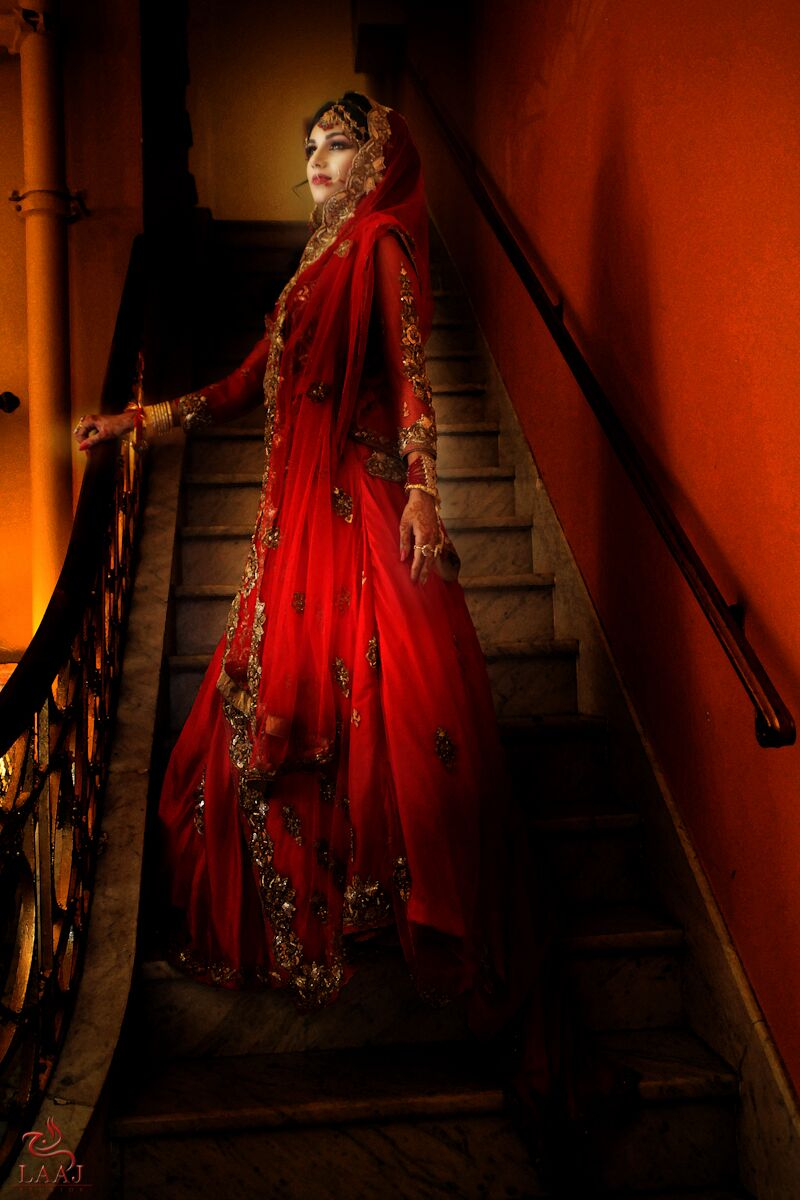
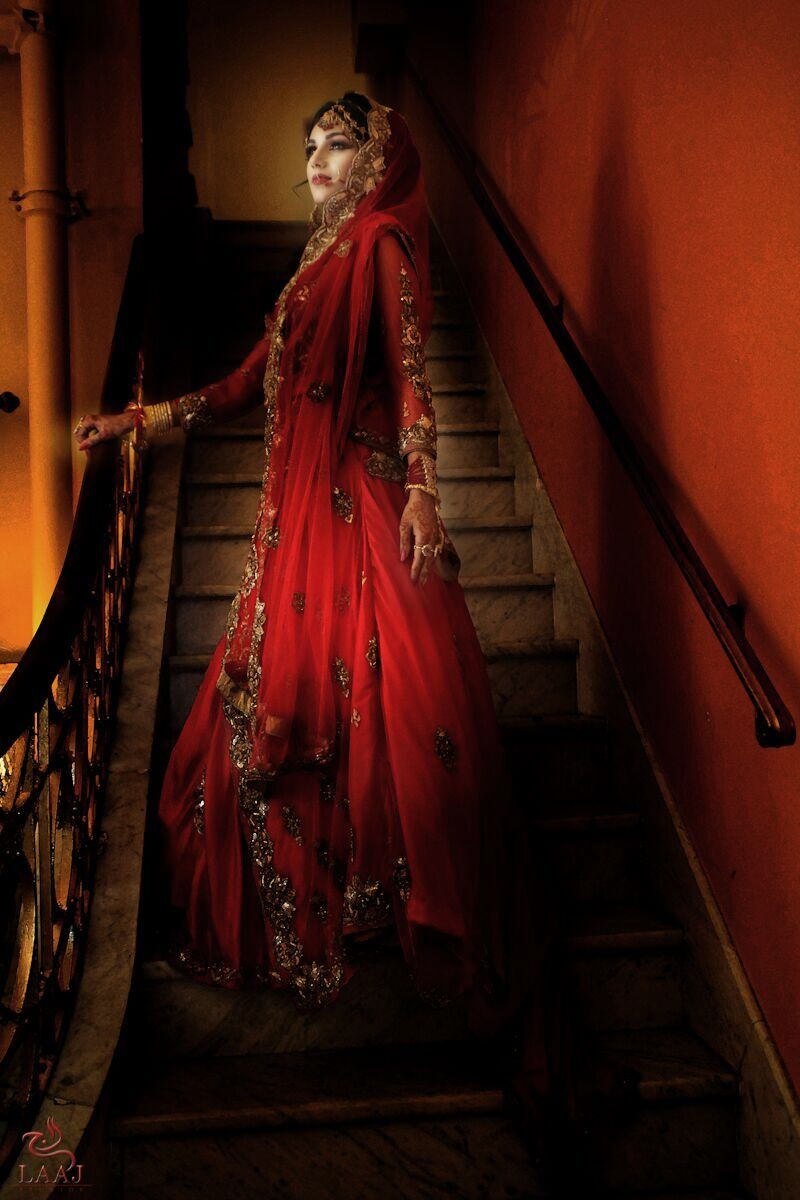
Tone down red: ivory, espresso and champagne-gold palette
Replace the oxblood/crimson site palette with espresso panels, ivory
pages and gold accents, keeping red only inside photographs. Swap
red-heavy images (hero sides, film still, one gallery detail) for ivory
and gold shots from the Drive portfolio, soften the hero centre image,
and remove the duplicate quote marks in testimonials.

Claude-Session: https://claude.ai/code/session_01GU3R7ECrbDjAm4dP1r6n33

diff --git a/css/styles.css b/css/styles.css
@@ -1,17 +1,18 @@
-/* Layout concept: an editorial bridal-magazine spread. Oxblood "night" panels alternate with pearl "day" pages;
-   photographs sit in Mughal arch frames; gold hairlines stand in for zari borders. */
+/* Layout concept: an editorial bridal-magazine spread. Espresso "night" panels alternate with ivory "day" pages;
+   photographs sit in Mughal arch frames; champagne-gold hairlines stand in for zari borders.
+   Red is reserved for the photographs themselves. */
 :root {
-  --pearl: #f7f2ef;      /* day pages */
-  --blush: #efe5e0;      /* soft panels on day pages */
-  --oxblood: #2a0b0e;    /* night panels */
-  --oxblood-2: #3a1216;  /* raised surfaces on night panels */
-  --crimson: #8e1b1f;    /* the Laaj logo red */
-  --gold: #c09a62;       /* zari gold, on dark */
-  --gold-deep: #8a6a3c;  /* gold that reads on pearl */
-  --ink: #1f1516;        /* text on pearl */
-  --ink-soft: #6b5a58;   /* secondary text on pearl */
-  --cream: #f3e9dc;      /* text on oxblood */
-  --cream-soft: #c9b6a6; /* secondary text on oxblood */
+  --pearl: #f8f5f0;      /* ivory day pages */
+  --sand: #eee8df;       /* soft panels on day pages */
+  --night: #17140f;      /* espresso night panels */
+  --night-2: #221e18;    /* raised surfaces on night panels */
+  --accent: #8a6a3c;     /* antique bronze: italic accents on ivory */
+  --gold: #c8a76e;       /* champagne gold, on dark */
+  --gold-deep: #8a6a3c;  /* gold that reads on ivory */
+  --ink: #1d1a16;        /* text on ivory */
+  --ink-soft: #6a6259;   /* secondary text on ivory */
+  --cream: #f4eee4;      /* text on night */
+  --cream-soft: #bdb3a5; /* secondary text on night */
 
   --f-display: "Bodoni Moda", "Didot", "Bodoni 72", Georgia, serif;
   --f-body: "Jost", "Futura", "Avenir Next", "Helvetica Neue", Arial, sans-serif;
@@ -44,7 +45,7 @@ body {
 img { max-width: 100%; display: block; height: auto; }
 a { color: inherit; }
 h1, h2, h3 { font-family: var(--f-display); font-weight: 400; line-height: 1.08; margin: 0; text-wrap: balance; letter-spacing: -0.01em; }
-h1 em, h2 em { font-style: italic; color: var(--crimson); }
+h1 em, h2 em { font-style: italic; color: var(--accent); }
 p { margin: 0; }
 :focus-visible { outline: 2px solid var(--gold); outline-offset: 3px; }
 
@@ -70,12 +71,12 @@ p { margin: 0; }
   cursor: pointer; transition: background .3s, color .3s, border-color .3s, transform .3s;
 }
 .btn:hover { transform: translateY(-1px); }
-.btn--gold { background: var(--gold); color: var(--oxblood); }
+.btn--gold { background: var(--gold); color: var(--night); }
 .btn--gold:hover { background: var(--cream); }
-.btn--crimson { background: var(--crimson); color: var(--cream); }
-.btn--crimson:hover { background: var(--oxblood); }
+.btn--dark { background: var(--night); color: var(--cream); }
+.btn--dark:hover { background: var(--accent); }
 .btn--line { border-color: var(--gold); color: var(--cream); background: transparent; }
-.btn--line:hover { background: var(--gold); color: var(--oxblood); }
+.btn--line:hover { background: var(--gold); color: var(--night); }
 .btn--line-dark { border-color: var(--ink); color: var(--ink); background: transparent; }
 .btn--line-dark:hover { background: var(--ink); color: var(--pearl); }
 .btn--text { background: none; color: var(--cream-soft); padding-inline: 0; }
@@ -83,7 +84,7 @@ p { margin: 0; }
 
 /* Ribbon + nav */
 .ribbon {
-  background: var(--crimson); color: var(--cream);
+  background: var(--night); color: var(--gold);
   display: flex; justify-content: center; flex-wrap: wrap; gap: .4rem 1.2rem;
   padding: .55rem var(--gutter);
   font: 400 var(--step--1)/1.4 var(--f-body); letter-spacing: .14em; text-transform: uppercase; text-align: center;
@@ -100,14 +101,14 @@ p { margin: 0; }
 }
 .nav__brand { display: flex; align-items: center; gap: .7rem; text-decoration: none; }
 .nav__brand span { font: 400 1.35rem/1 var(--f-display); letter-spacing: .14em; text-transform: uppercase; }
-.nav__brand em { font-style: normal; font-family: var(--f-body); font-size: .62rem; letter-spacing: .5em; color: var(--crimson); margin-left: .3rem; }
+.nav__brand em { font-style: normal; font-family: var(--f-body); font-size: .62rem; letter-spacing: .5em; color: var(--accent); margin-left: .3rem; }
 .nav__links { display: flex; gap: 2rem; }
 .nav__links a { font-size: .78rem; letter-spacing: .2em; text-transform: uppercase; text-decoration: none; color: var(--ink-soft); transition: color .2s; }
-.nav__links a:hover { color: var(--crimson); }
+.nav__links a:hover { color: var(--accent); }
 
 /* Hero */
 .hero {
-  background: radial-gradient(ellipse at 75% 40%, var(--oxblood-2), var(--oxblood) 65%);
+  background: radial-gradient(ellipse at 75% 40%, var(--night-2), var(--night) 65%);
   color: var(--cream);
   display: grid; grid-template-columns: minmax(0, 1fr) minmax(0, 1.15fr); align-items: center;
   gap: clamp(2rem, 5vw, 5rem);
@@ -141,7 +142,7 @@ p { margin: 0; }
   display: grid; grid-template-columns: auto minmax(0, 1fr); align-items: center; gap: clamp(1.5rem, 5vw, 5rem);
   max-width: 980px; margin: 0 auto; padding: clamp(3.5rem, 8vw, 6rem) var(--gutter);
 }
-.meaning__urdu { font: 500 clamp(4.5rem, 10vw, 7.5rem)/1.6 var(--f-urdu); color: var(--crimson); }
+.meaning__urdu { font: 500 clamp(4.5rem, 10vw, 7.5rem)/1.6 var(--f-urdu); color: var(--accent); }
 .meaning__def { display: grid; gap: .8rem; border-left: 1px solid var(--gold-deep); padding-left: clamp(1.2rem, 3vw, 2.5rem); }
 .meaning__word { font: italic 400 var(--step-2)/1.2 var(--f-display); }
 .meaning__word span { font: 400 var(--step--1)/1 var(--f-body); font-style: normal; letter-spacing: .12em; color: var(--ink-soft); margin-left: .6rem; }
@@ -157,7 +158,7 @@ p { margin: 0; }
 .work { padding: clamp(2rem, 5vw, 4rem) var(--gutter) clamp(4rem, 9vw, 7rem); max-width: var(--max); margin: 0 auto; }
 .gallery { columns: 3 260px; column-gap: clamp(.6rem, 1.4vw, 1.1rem); }
 .gallery__item {
-  display: block; width: 100%; margin: 0 0 clamp(.6rem, 1.4vw, 1.1rem); padding: 0; border: 0; background: var(--blush);
+  display: block; width: 100%; margin: 0 0 clamp(.6rem, 1.4vw, 1.1rem); padding: 0; border: 0; background: var(--sand);
   cursor: zoom-in; overflow: hidden; break-inside: avoid;
 }
 .gallery__item img { width: 100%; transition: transform 1.2s cubic-bezier(.2,.7,.1,1), filter .6s; }
@@ -167,7 +168,7 @@ p { margin: 0; }
 
 /* Film */
 .film {
-  background: var(--oxblood); color: var(--cream);
+  background: var(--night); color: var(--cream);
   display: grid; grid-template-columns: minmax(0, .9fr) minmax(0, 1.1fr); gap: clamp(2rem, 6vw, 6rem); align-items: center;
   padding: clamp(4rem, 9vw, 7rem) var(--gutter);
 }
@@ -184,7 +185,7 @@ p { margin: 0; }
 .film__feature em { font: italic 400 1.15rem/1 var(--f-display); text-transform: none; letter-spacing: 0; color: var(--cream); }
 
 /* Collections */
-.collections { padding: clamp(4rem, 9vw, 7rem) var(--gutter); background: var(--blush); }
+.collections { padding: clamp(4rem, 9vw, 7rem) var(--gutter); background: var(--sand); }
 .tiers { display: grid; grid-template-columns: repeat(3, minmax(0, 1fr)); gap: clamp(1rem, 2vw, 1.6rem); max-width: var(--max); margin: 0 auto; align-items: stretch; }
 .tier {
   background: var(--pearl); padding: clamp(1.8rem, 3vw, 2.6rem); display: flex; flex-direction: column; gap: 1rem;
@@ -198,16 +199,16 @@ p { margin: 0; }
 .tier li { padding-left: 1.3rem; position: relative; }
 .tier li::before { content: ""; position: absolute; left: 0; top: .75em; width: .55rem; height: 1px; background: var(--gold-deep); }
 .tier .btn { margin-top: 1.2rem; }
-.tier--featured { background: var(--oxblood); color: var(--cream); border-color: var(--gold); }
+.tier--featured { background: var(--night); color: var(--cream); border-color: var(--gold); }
 .tier--featured .tier__for { color: var(--gold); }
 .tier--featured .tier__price { border-color: color-mix(in srgb, var(--gold) 40%, transparent); }
 .tier--featured .tier__price span, .tier--featured ul { color: var(--cream-soft); }
 .tier--featured li::before { background: var(--gold); }
-.tier__badge { position: absolute; top: 0; right: clamp(1.8rem, 3vw, 2.6rem); transform: translateY(-50%); background: var(--gold); color: var(--oxblood); font-size: .68rem; font-weight: 500; letter-spacing: .22em; text-transform: uppercase; padding: .45rem .8rem; }
+.tier__badge { position: absolute; top: 0; right: clamp(1.8rem, 3vw, 2.6rem); transform: translateY(-50%); background: var(--gold); color: var(--night); font-size: .68rem; font-weight: 500; letter-spacing: .22em; text-transform: uppercase; padding: .45rem .8rem; }
 .collections__foot { text-align: center; color: var(--ink-soft); font-size: .95rem; margin-top: 2rem; }
 
 /* Process */
-.process { background: var(--oxblood); color: var(--cream); padding: clamp(4rem, 9vw, 7rem) var(--gutter); }
+.process { background: var(--night); color: var(--cream); padding: clamp(4rem, 9vw, 7rem) var(--gutter); }
 .process > * { max-width: var(--max); margin-inline: auto; }
 .process h2 em { color: var(--gold); }
 .steps { list-style: none; padding: 0; display: grid; grid-template-columns: repeat(4, minmax(0, 1fr)); gap: clamp(1.5rem, 3vw, 2.5rem); }
@@ -222,13 +223,13 @@ p { margin: 0; }
 .words blockquote {
   margin: 0; position: relative; display: flex; flex-direction: column; gap: 1.4rem;
   padding: clamp(2.6rem, 4vw, 3.4rem) clamp(1.6rem, 3vw, 2.4rem) clamp(1.8rem, 3vw, 2.4rem);
-  background: var(--blush); border-top: 1px solid var(--gold-deep);
+  background: var(--sand); border-top: 1px solid var(--gold-deep);
 }
-.words blockquote::before { content: "\201C"; position: absolute; top: .4rem; left: clamp(1.2rem, 2.6vw, 2rem); font: italic 400 4.5rem/1 var(--f-display); color: var(--crimson); }
+.words blockquote::before { content: "\201C"; position: absolute; top: .4rem; left: clamp(1.2rem, 2.6vw, 2rem); font: italic 400 4.5rem/1 var(--f-display); color: var(--accent); }
 .words blockquote p { font: italic 400 var(--step-1)/1.5 var(--f-display); margin-bottom: auto; }
 .words cite { font-style: normal; font-size: var(--step--1); letter-spacing: .16em; text-transform: uppercase; color: var(--gold-deep); line-height: 1.6; }
 .words cite strong { display: block; font: 400 1.05rem/1.3 var(--f-display); letter-spacing: 0; text-transform: none; color: var(--ink); }
-.words__tag { position: absolute; top: 1rem; right: 1rem; font-size: .62rem; letter-spacing: .2em; text-transform: uppercase; color: var(--crimson); border: 1px dashed var(--crimson); padding: .25rem .5rem; }
+.words__tag { position: absolute; top: 1rem; right: 1rem; font-size: .62rem; letter-spacing: .2em; text-transform: uppercase; color: var(--accent); border: 1px dashed var(--accent); padding: .25rem .5rem; }
 
 /* FAQ */
 .faq { padding: clamp(4rem, 9vw, 7rem) var(--gutter); max-width: 980px; margin: 0 auto; }
@@ -236,13 +237,13 @@ p { margin: 0; }
 .faq details { border-bottom: 1px solid color-mix(in srgb, var(--gold-deep) 35%, transparent); }
 .faq summary { list-style: none; cursor: pointer; display: flex; justify-content: space-between; gap: 1rem; padding: 1.4rem 0; font: 400 var(--step-1)/1.3 var(--f-display); }
 .faq summary::-webkit-details-marker { display: none; }
-.faq summary::after { content: "+"; font-family: var(--f-body); font-weight: 300; color: var(--crimson); transition: transform .3s; }
+.faq summary::after { content: "+"; font-family: var(--f-body); font-weight: 300; color: var(--accent); transition: transform .3s; }
 .faq details[open] summary::after { transform: rotate(45deg); }
 .faq details p { padding-bottom: 1.5rem; color: var(--ink-soft); max-width: 62ch; }
 
 /* Enquiry */
 .enquire {
-  background: var(--oxblood); color: var(--cream);
+  background: var(--night); color: var(--cream);
   display: grid; grid-template-columns: minmax(0, .85fr) minmax(0, 1.15fr); gap: clamp(2.5rem, 6vw, 6rem);
   padding: clamp(4rem, 9vw, 7rem) var(--gutter);
 }
@@ -258,7 +259,7 @@ p { margin: 0; }
 .contact-list a:hover { color: var(--gold); }
 .enquire__area { font-size: var(--step--1); letter-spacing: .14em; text-transform: uppercase; color: var(--gold); }
 
-.form { background: var(--oxblood-2); padding: clamp(1.4rem, 4vw, 3rem); border: 1px solid color-mix(in srgb, var(--gold) 35%, transparent); min-width: 0; align-self: start; }
+.form { background: var(--night-2); padding: clamp(1.4rem, 4vw, 3rem); border: 1px solid color-mix(in srgb, var(--gold) 35%, transparent); min-width: 0; align-self: start; }
 .form__progress { list-style: none; padding: 0; margin: 0 0 2rem; display: grid; grid-template-columns: repeat(3, 1fr); gap: .5rem; counter-reset: s; }
 .form__progress li { counter-increment: s; font-size: .7rem; letter-spacing: .18em; text-transform: uppercase; color: var(--cream-soft); padding-top: .7rem; border-top: 2px solid color-mix(in srgb, var(--cream) 15%, transparent); transition: border-color .3s, color .3s; }
 .form__progress li::before { content: counter(s, lower-roman) ". "; font-family: var(--f-display); font-style: italic; }
@@ -276,7 +277,7 @@ p { margin: 0; }
   padding: .7rem 0; font: 300 1.05rem/1.4 var(--f-body);
   transition: border-color .2s;
 }
-.form select option { background: var(--oxblood); color: var(--cream); }
+.form select option { background: var(--night); color: var(--cream); }
 .form input:focus, .form select:focus, .form textarea:focus { outline: none; border-bottom-color: var(--gold); }
 .form textarea { resize: vertical; }
 .form ::placeholder { color: color-mix(in srgb, var(--cream) 35%, transparent); }
@@ -288,7 +289,7 @@ p { margin: 0; }
 .chip input { position: absolute; opacity: 0; pointer-events: none; }
 .chip span { display: inline-block; padding: .55rem 1rem; border: 1px solid color-mix(in srgb, var(--cream) 30%, transparent); font-size: .9rem; transition: all .2s; }
 .chip:hover span { border-color: var(--gold); }
-.chip input:checked + span { background: var(--gold); border-color: var(--gold); color: var(--oxblood); }
+.chip input:checked + span { background: var(--gold); border-color: var(--gold); color: var(--night); }
 .chip input:focus-visible + span { outline: 2px solid var(--gold); outline-offset: 2px; }
 .form__nav { display: flex; justify-content: space-between; align-items: center; gap: 1rem; margin-top: .6rem; }
 .form__privacy { font-size: .8rem; color: var(--cream-soft); }
@@ -299,7 +300,7 @@ p { margin: 0; }
 .hp { position: absolute; left: -9999px; }
 
 /* Footer */
-.footer { background: var(--oxblood); color: var(--cream-soft); text-align: center; display: grid; justify-items: center; gap: 1.2rem; padding: 4rem var(--gutter) calc(6rem + env(safe-area-inset-bottom, 0px)); border-top: 1px solid color-mix(in srgb, var(--gold) 25%, transparent); }
+.footer { background: var(--night); color: var(--cream-soft); text-align: center; display: grid; justify-items: center; gap: 1.2rem; padding: 4rem var(--gutter) calc(6rem + env(safe-area-inset-bottom, 0px)); border-top: 1px solid color-mix(in srgb, var(--gold) 25%, transparent); }
 .footer__logo { width: 160px; opacity: .92; }
 .footer__area { font-size: var(--step--1); letter-spacing: .2em; text-transform: uppercase; color: var(--gold); }
 .footer__links { display: flex; flex-wrap: wrap; justify-content: center; gap: .6rem 2rem; }
@@ -311,7 +312,7 @@ p { margin: 0; }
 .wa-float {
   position: fixed; right: 20px; bottom: calc(20px + env(safe-area-inset-bottom, 0px)); z-index: 60;
   width: 56px; height: 56px; border-radius: 50%; display: grid; place-items: center;
-  background: var(--gold); color: var(--oxblood); box-shadow: 0 10px 30px -8px rgba(0,0,0,.45);
+  background: var(--gold); color: var(--night); box-shadow: 0 10px 30px -8px rgba(0,0,0,.45);
   transition: transform .3s;
 }
 .wa-float:hover { transform: scale(1.06); }
@@ -350,10 +351,10 @@ p { margin: 0; }
   .wa-float { display: none; }
   .mobile-bar {
     display: grid; grid-template-columns: 1fr 1fr 1fr 1.4fr; position: fixed; inset: auto 0 0 0; z-index: 60;
-    background: var(--oxblood); border-top: 1px solid color-mix(in srgb, var(--gold) 40%, transparent);
+    background: var(--night); border-top: 1px solid color-mix(in srgb, var(--gold) 40%, transparent);
     padding-bottom: env(safe-area-inset-bottom, 0px);
   }
   .mobile-bar a { text-align: center; padding: 1rem .3rem; font-size: .7rem; letter-spacing: .16em; text-transform: uppercase; text-decoration: none; color: var(--cream); }
-  .mobile-bar__primary { background: var(--gold); color: var(--oxblood) !important; font-weight: 500; }
+  .mobile-bar__primary { background: var(--gold); color: var(--night) !important; font-weight: 500; }
 }
 @media (prefers-reduced-motion: reduce) { html { scroll-behavior: auto; } * { transition: none !important; } }

diff --git a/index.html b/index.html
@@ -22,7 +22,7 @@
 
 <header class="nav" id="top">
   <a class="nav__brand" href="#top" aria-label="Laaj Studios home">
-    <img src="images/mark-crimson.png" alt="" width="40" height="37">
+    <img src="images/mark-gold.png" alt="" width="40" height="37">
     <span>Laaj <em>Studios</em></span>
   </a>
   <nav class="nav__links" aria-label="Primary">
@@ -32,7 +32,7 @@
     <a href="#process">Process</a>
     <a href="#faq">FAQ</a>
   </nav>
-  <a class="btn btn--crimson nav__cta" href="#enquire">Check availability</a>
+  <a class="btn btn--dark nav__cta" href="#enquire">Check availability</a>
 </header>
 
 <main>
@@ -50,9 +50,9 @@
     <p class="hero__note" data-cfg="replyPromise">We reply to every enquiry within 24 hours.</p>
   </div>
   <div class="hero__arches" aria-hidden="true">
-    <figure class="arch arch--side arch--rect"><img src="images/bride-veil-silver.jpg" alt="" width="800" height="1200"></figure>
+    <figure class="arch arch--side arch--rect"><img src="images/bride-ivory-gown.jpg" alt="" width="800" height="1200"></figure>
     <figure class="arch arch--centre"><img src="images/bride-staircase.jpg" alt="" width="800" height="1200"></figure>
-    <figure class="arch arch--side arch--rect arch--low"><img src="images/groom-sehra.jpg" alt="" width="800" height="1200"></figure>
+    <figure class="arch arch--side arch--rect arch--low"><img src="images/detail-mehndi-ivory.jpg" alt="" width="800" height="1200"></figure>
   </div>
 </section>
 
@@ -75,7 +75,7 @@
     <button class="gallery__item" data-full="images/detail-mehndi-hands.jpg"><img src="images/detail-mehndi-hands.jpg" alt="Mehndi-painted hands with floral gajra beside an elder's hand" loading="lazy" width="1200" height="800"></button>
     <button class="gallery__item" data-full="images/bride-portrait-classic.jpg"><img src="images/bride-portrait-classic.jpg" alt="Black and white portrait of a bride in jewelled dupatta" loading="lazy" width="800" height="1200"></button>
     <button class="gallery__item" data-full="images/couple-gazebo.jpg"><img src="images/couple-gazebo.jpg" alt="Couple dancing beneath a white gazebo in winter" loading="lazy" width="800" height="1200"></button>
-    <button class="gallery__item" data-full="images/detail-couple-hands.jpg"><img src="images/detail-couple-hands.jpg" alt="Groom in sherwani holding the bride's hand in a red embroidered lehenga" loading="lazy" width="800" height="1200"></button>
+    <button class="gallery__item" data-full="images/detail-ring-box.jpg"><img src="images/detail-ring-box.jpg" alt="Mehndi-adorned hands in gold bangles opening a ring box" loading="lazy" width="800" height="1200"></button>
     <button class="gallery__item" data-full="images/bride-garden-mehndi.jpg"><img src="images/bride-garden-mehndi.jpg" alt="Mehndi bride seated on the grass in a pine forest" loading="lazy" width="800" height="1200"></button>
     <button class="gallery__item" data-full="images/detail-couple-seated.jpg"><img src="images/detail-couple-seated.jpg" alt="Bride and groom seated, embroidered lehenga beside navy suit" loading="lazy" width="1200" height="800"></button>
     <button class="gallery__item" data-full="images/detail-heels.jpg"><img src="images/detail-heels.jpg" alt="Gold glitter bridal heels in warm light" loading="lazy" width="800" height="1200"></button>
@@ -83,14 +83,14 @@
   </div>
   <div class="inline-cta">
     <p>Imagine your day in this light.</p>
-    <a class="btn btn--crimson" href="#enquire">Ask about your date</a>
+    <a class="btn btn--dark" href="#enquire">Ask about your date</a>
   </div>
 </section>
 
 <!-- FILM -->
 <section class="film" id="film">
   <figure class="film__still">
-    <img src="images/bride-veil-red.jpg" alt="Bride beneath a crimson dupatta, hands adorned with mehndi" loading="lazy" width="800" height="1200">
+    <img src="images/detail-lantern.jpg" alt="Gilded lantern glowing on a mehndi reception table" loading="lazy" width="800" height="1200">
   </figure>
   <div class="film__text">
     <p class="eyebrow eyebrow--gold">Cinema</p>

diff --git a/js/main.js b/js/main.js
@@ -34,7 +34,7 @@
     var list = $(".words__list", words);
     C.testimonials.forEach(function (t) {
       var q = document.createElement("blockquote");
-      var p = document.createElement("p"); p.textContent = "“" + t.quote + "”";
+      var p = document.createElement("p"); p.textContent = t.quote;
       var c = document.createElement("cite");
       var n = document.createElement("strong"); n.textContent = t.names;
       c.appendChild(n); if (t.event) c.appendChild(document.createTextNode(t.event));
